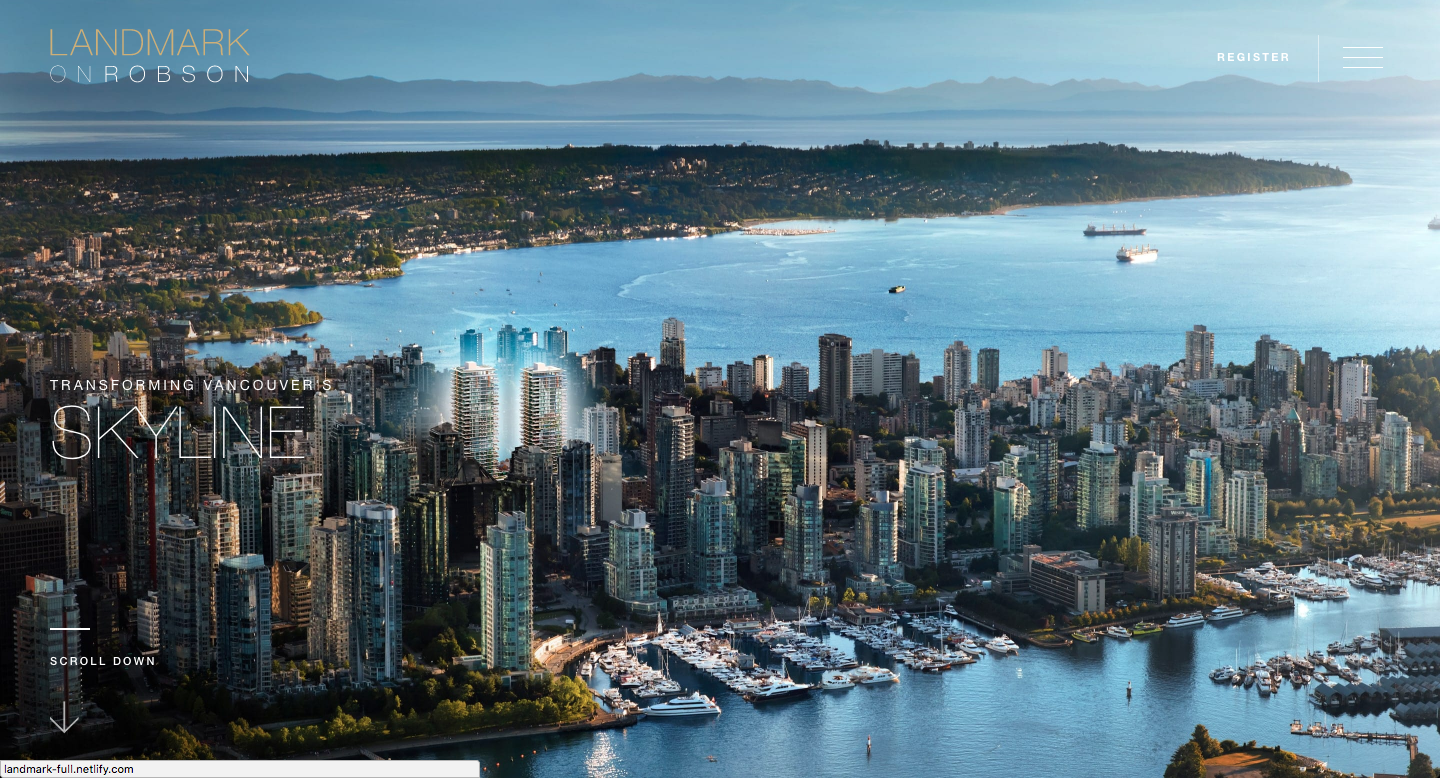
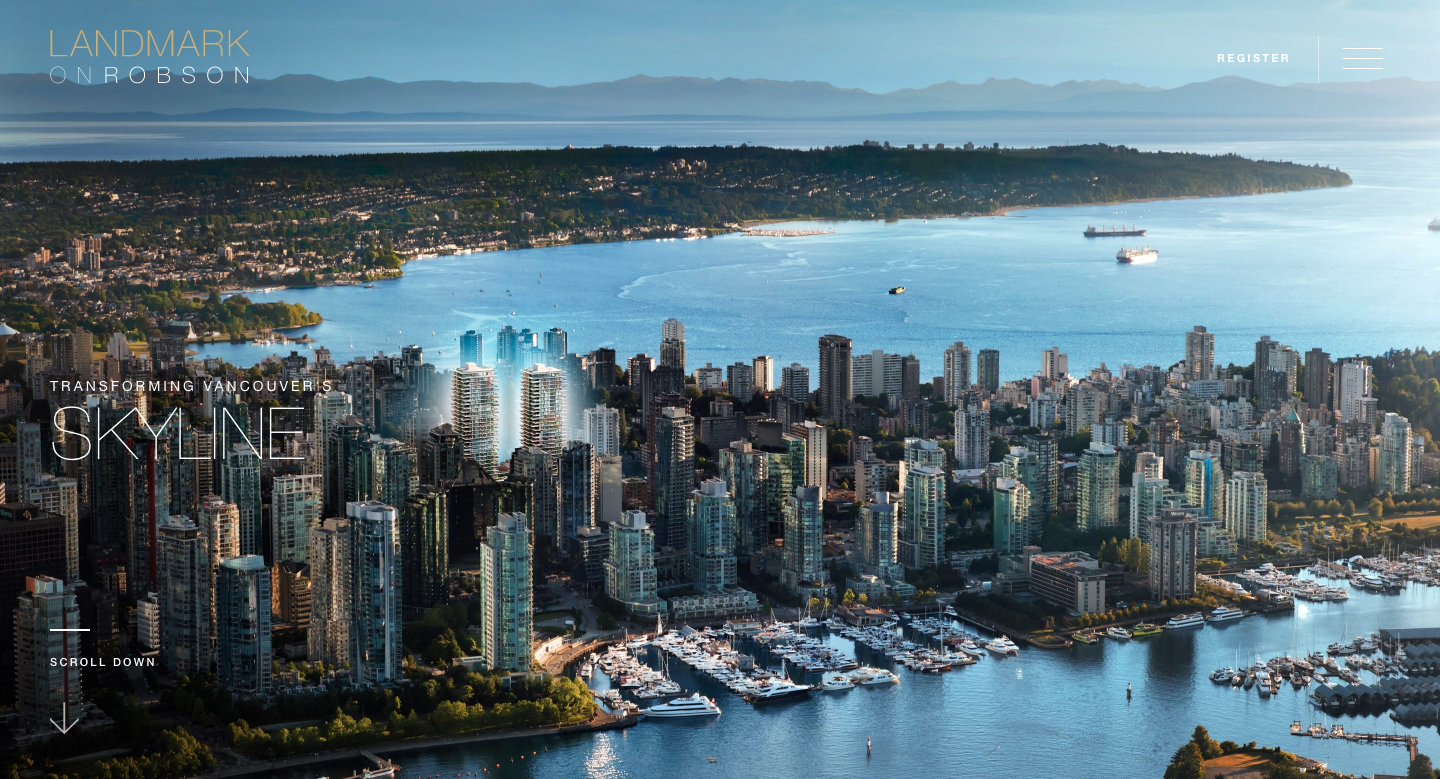
Home & Footer: Add waypoint functionality, not working fully, footer mark

diff --git a/src/Pages/Home/Projects.js b/src/Pages/Home/Projects.js
@@ -19,7 +19,7 @@ const ProjectContainer = styled.div`
     color: #FFF;
     letter-spacing: 2px;
     @media (min-width: 768px) {
-      margin: 83px 0 0 70px;
+      margin: 46px 0 0 70px;
     }
   }
 `;
@@ -29,6 +29,7 @@ const ProjectBlock = styled.div`
   text-align: right;
   img {
     width: 100%;
+    height: auto;
     margin-left: auto;
     @media (min-width: 768px) {
       max-width: 500px;
@@ -50,7 +51,7 @@ const ProjectName = styled(Link)`
   position: absolute;
   z-index: 2;
   left: 5%;
-  top: 30%;
+  top: 13%;
   text-shadow: 3px 3px 2px #000;
   margin: 0;
   text-decoration: none;
@@ -70,12 +71,17 @@ const ProjectName = styled(Link)`
       width: 100px;
     }
   }
+  &.fixed {
+    position: fixed;
+    top: 50%;
+  }
 `;
 
 class ProjectComponent extends React.Component {
   constructor(props) {
     super(props)
     this.state = {
+      arrayPosition: 0,
       projectDetail: [
         {
           src: './assets/img/home/project-juneau.png',
@@ -107,14 +113,34 @@ class ProjectComponent extends React.Component {
   }
 
   _handleWaypointEnter() {
-    console.log('hello')
+    console.log('entered')
+    const idProjectName = document.getElementById('ProjectName')
+
+    idProjectName.classList.add('fixed')
+  }
+  _handleWaypointLeave() {
+    console.log('left')
+    const idProjectName = document.getElementById('ProjectName')
+
+    idProjectName.classList.remove('fixed')
+  }
+  _sectionEnter(index) {
+
+    this.setState({
+      arrayPosition: index
+    })
+    // console.log(`section-${index}`)
+    console.log(this.state.arrayPosition)
   }
 
   render() {
     const projectDetails = this.state.projectDetail;
     const projectItems = projectDetails.map((detail, index) =>
       <ProjectBlock key={index}>
-        <img src={detail.src} alt={detail.name}/>
+        <Waypoint 
+          key={index}
+          onEnter={this._sectionEnter.bind(this, index)}/>
+        <img src={detail.src} alt={detail.name}/>  
       </ProjectBlock>
     );
 
@@ -124,11 +150,15 @@ class ProjectComponent extends React.Component {
           <h2>Projects</h2>
         </div>
         <Waypoint
+          bottomOffset="50%"
+          scrollableAncestor={window}
           onEnter={this._handleWaypointEnter}
-          threshold={0}
-        />
-        <ProjectName href="/">{this.state.projectDetail[0].name}</ProjectName>
-        {projectItems}
+          onLeave={this._handleWaypointLeave}>
+          <div className="project-section">
+            <ProjectName id="ProjectName" href="/">{this.state.projectDetail[this.state.arrayPosition].name}</ProjectName>
+            {projectItems}
+          </div>
+        </Waypoint>
 
       </ProjectContainer>
     )

diff --git a/src/App/AppFooter.js b/src/App/AppFooter.js
@@ -11,6 +11,7 @@ const Footer = styled.div`
   padding: 24px 0;
   color: #000;
   background-color: #fff;
+  position: relative;
 `;
 
 const Copyright = styled.span`padding-right: 0.5em;`;
@@ -28,17 +29,60 @@ const ExtLink = styled.a`
     color: #000;
     text-decoration: none;
     transition: 300ms ease;
+    opacity: 1;
   }
 
   &:hover {
-    text-decoration: underline;
+    opacity: 0.8;
   }
 `;
+
+const LinkList = styled.ul`
+  list-style: none;
+  a {
+    text-decoration: none;
+    color: #000;
+    transition: 300ms ease;
+    opaciyt: 1;
+    &:hover {
+      opacity: 0.8;
+    }
+  }
+  li {
+    &:first-of-type {
+      margin-bottom: 20px;
+    }
+  }
+`;
+
+const Rectangle = styled.div`
+  width: 25px;
+  position: absolute;
+  left: 0;
+  &.black {
+    top: 0;
+    height: 25px;
+    background-color: #000;
+  }
+  &.gradient {
+    top: -30px;
+    height: 170px;
+    background: linear-gradient(-134deg, #3FDFA4 0%, #3E45B9 100%);
+  }
+`;
+
 
 class AppFooter extends React.Component {
   render() {
     return (
       <Footer className="container">
+        <Rectangle className="gradient"></Rectangle>
+        <LinkList>
+          <li><a href="mailto:kurtiscyoung@gmail.com">kurtiscyoung@gmail.com</a></li>
+          <li><a href="https://github.com/kurtisyoung" target="_blank">Github</a></li>
+          <li><a href="https://www.linkedin.com/in/kcyoung1/" target="_blank">LinkedIn</a></li>
+          <li><a href="https://www.instagram.com/w_areyoung/" target="_blank">Instagram</a></li>
+        </LinkList>
         <Copyright css="padding-right: 0.5em">&copy; 2018</Copyright>
         <ExtLink href={KURTIS_URL}>created by Kurtis Young</ExtLink>
         {/* <Separator>|</Separator>

diff --git a/src/Pages/Home/Hero.js b/src/Pages/Home/Hero.js
@@ -35,6 +35,7 @@ const ContentContainer = styled.div`
     transform: translate(-50%, -50%);
     max-width: 300px;
     width: 100%;
+    height: auto;
     @media (min-width: 768px) {
       max-width: 100%;
       left: -30px;
@@ -126,7 +127,7 @@ class Hero extends React.Component {
         </ContentContainer>
         <ContentContainer>
           <img className="k k-black" src="./assets/img/home/k-black.svg" alt="K" />
-          <img className="k k-gradient" src="./assets/img/home/k-gradient.svg" alt="K" />
+          <img className="k k-gradient" src="./assets/img/home/k-gradient.svg" alt="K"/>
         </ContentContainer>
         {/* <Description>
           <strong>React Static</strong> is a popular boilerplate for building
